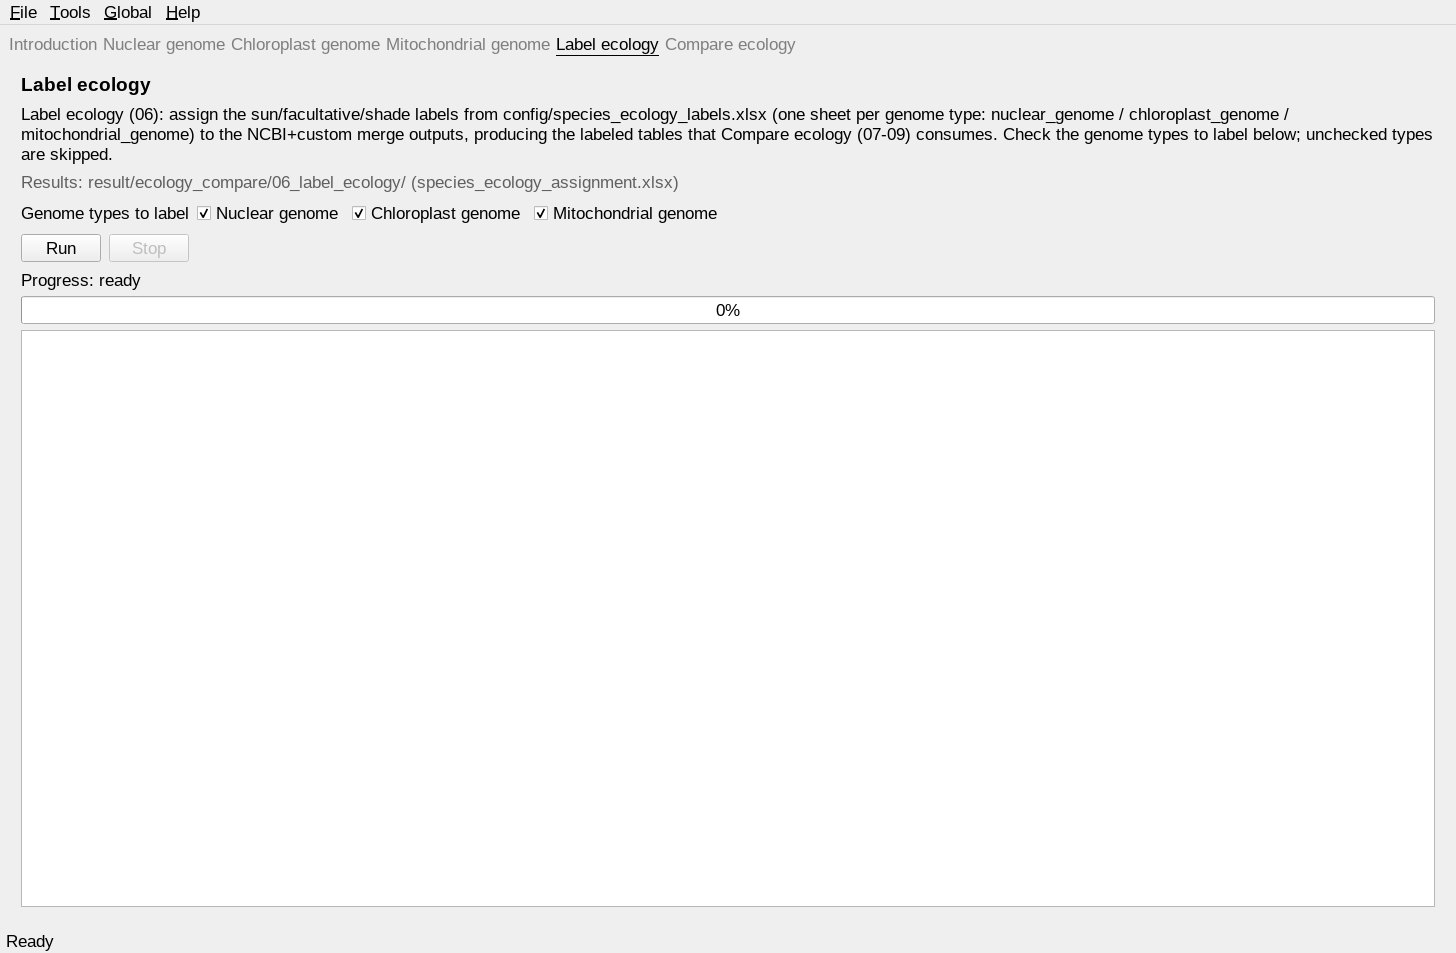
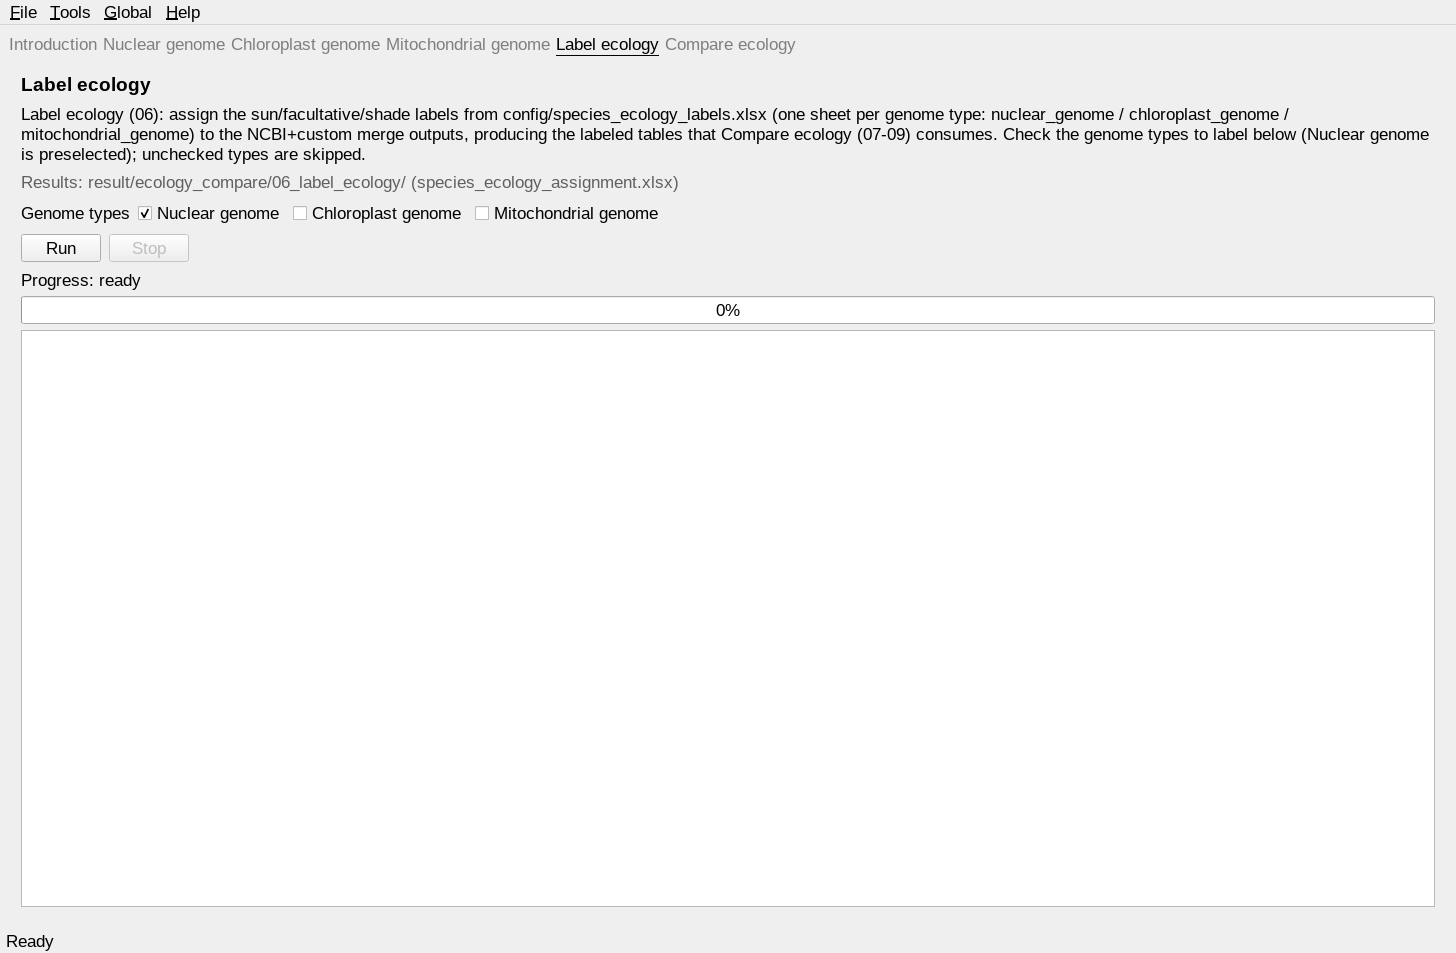
docs: v1.3.64 Nuclear genome preselected in the type checkboxes

Changed region(s): [[0.0927, 0.213, 0.4945, 0.2434], [0.0, 0.1522, 0.2473, 0.1826], [0.8963, 0.1217, 0.989, 0.1522]]

diff --git a/docs/conf.py b/docs/conf.py
@@ -9,8 +9,8 @@ author = "sunshadeCisseeker developers"
 copyright = "2026, sunshadeCisseeker developers"
 
 # The short X.Y version and the full release version.
-version = "v1.3.63"
-release = "v1.3.63"
+version = "v1.3.64"
+release = "v1.3.64"
 
 extensions = [
     "sphinx.ext.autosectionlabel",

diff --git a/docs/content/Screenshots.rst b/docs/content/Screenshots.rst
@@ -62,7 +62,8 @@ editors and the remaining functions.
    ``result/ecology_compare/06_label_ecology/species_ecology_assignment.xlsx``
    (``Assignment`` / ``Group_counts`` / ``Unlabeled`` sheets) — the single
    label source for the comparison. The three **genome-type checkboxes**
-   select which types get labeled (unchecked types are skipped). Run it
+   select which types get labeled (only **Nuclear genome** starts checked;
+   unchecked types are skipped). Run it
    after the genome pages and before Compare ecology; re-run only this page
    after editing the label table.
 
@@ -73,7 +74,8 @@ editors and the remaining functions.
    datasets into the ecology master table (07), differential statistics —
    Kruskal-Wallis plus pairwise Wilcoxon with Benjamini-Hochberg correction
    (08) — and the publication figures (09). The three genome-type checkboxes
-   match the Label ecology page: unchecked types are left out of the merge.
+   match the Label ecology page (only **Nuclear genome** starts checked):
+   unchecked types are left out of the merge.
    It requires the Label ecology page to have run first. Results land under
    ``result/ecology_compare/``.
 

diff --git a/docs/content/GUI.rst b/docs/content/GUI.rst
@@ -50,10 +50,10 @@ with ``2`` (skips oversized archives such as the ~2.7 GB *Tanacetum
 coccineum* genome). Clearing the field means no limit (the empty value
 persists), while a *missing* key defaults to ``2`` again on the next
 ``run_all.sh`` launch. The **Label ecology** and **Compare ecology** pages
-additionally offer the three genome-type checkboxes (all checked by
-default): they become the ``--label-types`` / ``--ecology-types`` flags of
-the respective runs, so both steps analyze exactly the selected genome
-types. A screenshot of every
+additionally offer the three genome-type checkboxes (only **Nuclear genome**
+starts checked): they become the ``--label-types`` / ``--ecology-types``
+flags of the respective runs, so both steps analyze exactly the selected
+genome types. A screenshot of every
 page and popup, with explanations, is on the :doc:`Screenshots` page.
 
 Menu bar

diff --git a/docs/content/Changelog.rst b/docs/content/Changelog.rst
@@ -1,6 +1,14 @@
 Changelog
 =========
 
+1.3.64 — genome-type checkboxes: Nuclear preselected
+------------------------------------------------------
+
+* On the Label ecology and Compare ecology pages only the **Nuclear genome**
+  checkbox starts checked (the other two start unchecked): the nuclear
+  label sheet is the one normally populated, and the organelle types are
+  ticked explicitly when their sheets carry labels.
+
 1.3.63 — Compare ecology: genome-type checkboxes
 --------------------------------------------------
 

diff --git a/docs/content/About sunshadeCisseeker.rst b/docs/content/About sunshadeCisseeker.rst
@@ -4,7 +4,7 @@ About sunshadeCisseeker
 sunshadeCisseeker identifies, annotates and compares promoter
 cis-regulatory elements across sun / facultative / shade plants.
 
-The current release is **1.3.63**.
+The current release is **1.3.64**.
 
 Highlights
 ----------
